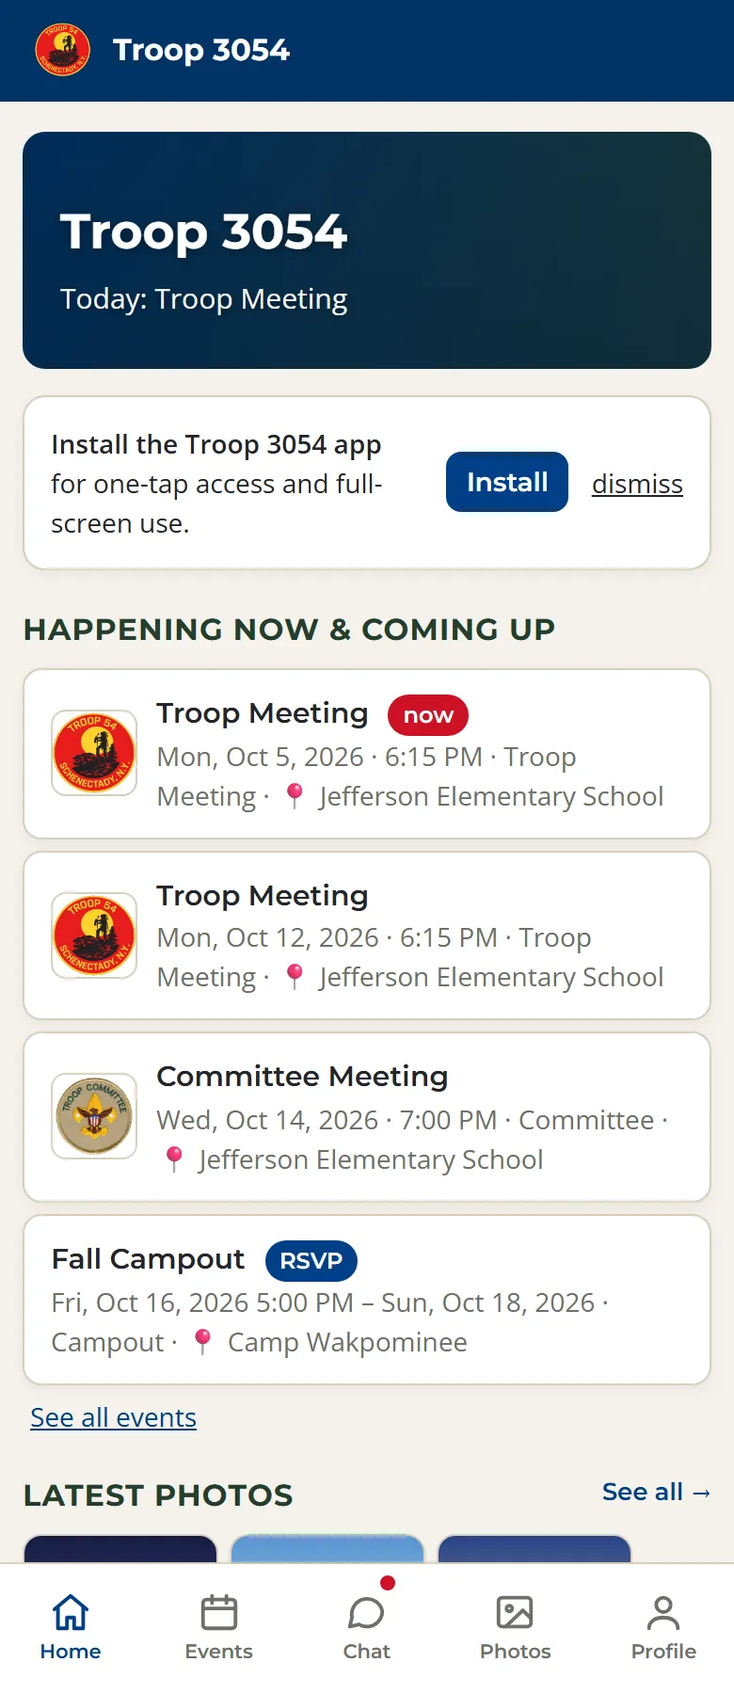
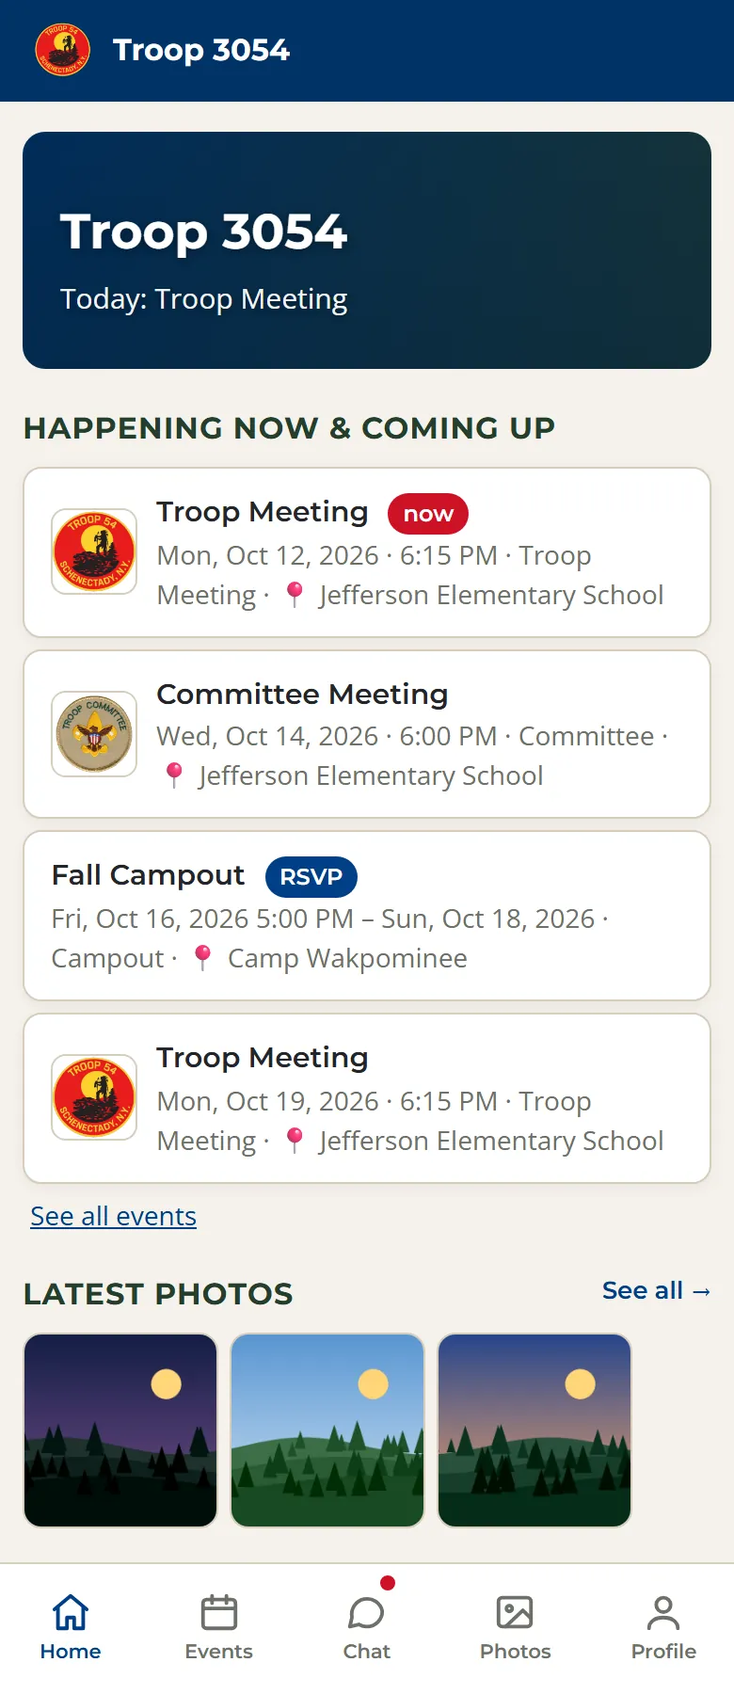
Audit fixes: accurate meeting nights, privacy policy, program facts
- "Every Monday" becomes "most Mondays", with a pointer to the calendar
  (some Mondays are off, some are the food bank).
- Privacy policy: Google Analytics' cookies, the Scribe's access, the 85th
  memory form, ranks and requirements taught, join requests, read
  receipts, the phone field, weekly backups to the admins, and
  info@troop3054.org instead of a personal address.
- Safeguarding Youth renews every year; the magazine is Scout Life; the
  Eagle page counts 59 Eagles; merit badges "over 135" everywhere.
- Contact form errors point to info@troop3054.org, not BAND.
- Calendar: a visible Google Calendar link next to Subscribe (webcal
  doesn't open on Android); the guide says so.
- Guide: leaders, not the PLC, fill in missing times and places; the
  Home screenshot shows the committee at 6 PM.
- Removed an unused combined pack/troop calendar image and an unused
  group photo of Scouts; .wrangler/ is ignored.

Changed region(s): [[0.0308, 0.2178, 0.9846, 0.9333], [0.9538, 0.2489, 0.9846, 0.28]]

diff --git a/privacy.html b/privacy.html
@@ -127,7 +127,7 @@
           <h2 style="margin-top: 2.5rem;">What We Collect</h2>
 
           <h3>Contact Form</h3>
-          <p>When you use our <a href="contact.html">contact form</a>, we collect your name, email address, and message. This information is processed by <a href="https://formspree.io" target="_blank" rel="noopener noreferrer">Formspree</a>, a third-party form service, and forwarded to our Committee Chair via email. We use this information only to respond to your inquiry.</p>
+          <p>When you use our <a href="contact.html">contact form</a>, we collect your name, email address, phone number (if you give one), and message. This information is processed by <a href="https://formspree.io" target="_blank" rel="noopener noreferrer">Formspree</a>, a third-party form service, and forwarded to our Committee Chair via email. We use this information only to respond to your inquiry.</p>
 
           <h3>Registration</h3>
           <p>When you register a Scout, you are redirected to <a href="https://my.scouting.org" target="_blank" rel="noopener noreferrer">my.scouting.org</a>, which is operated by Scouting America. We do not collect or process any registration data on our website. Scouting America's privacy policy governs that information.</p>
@@ -136,7 +136,10 @@
           <p>Troop families use a private, login-required portal at my.troop3054.org for attendance, events, RSVPs, announcements, group chat, and activity photos. The portal is run by our troop's volunteer leaders and is not visible to the public. For troop members it stores:</p>
           <ul>
             <li><strong>Roster information</strong> — names, patrol, and role in the troop; email addresses for adults (optional for Scouts, and a parent's address is preferred)</li>
-            <li><strong>Activity records</strong> — attendance, RSVPs, and camping nights, kept as part of the troop's program records</li>
+            <li><strong>Activity records</strong> — attendance, RSVPs, camping nights, and volunteer hours, kept as part of the troop's program records</li>
+            <li><strong>Advancement and planning</strong> — each Scout's current rank, the rank requirements taught at meetings they attended (a leader still signs them off in Scoutbook), and the youth leaders' meeting plans and reviews</li>
+            <li><strong>Requests to join</strong> — if you ask for a portal account, your name, email address, your Scout's name, and your relationship, so a leader can approve it</li>
+            <li><strong>Read receipts</strong> — whether you've opened an announcement, which troop leaders can see</li>
             <li><strong>Messages and photos</strong> — group-channel chat messages and photos from troop activities, visible only to signed-in members</li>
             <li><strong>Technical basics</strong> — a sign-in cookie (essential, first-party) and, if you turn notifications on, a push subscription for your device</li>
           </ul>
@@ -146,9 +149,12 @@
             <li>Everything a Scout can see, their parents can see</li>
             <li>Scouts sign in with a name and PIN — no email or social account is required for a child</li>
             <li>Notifications to Scouts' devices pause overnight</li>
-            <li>Access is role-based: only troop leaders can see attendance records and the full roster; committee-only material is not visible to Scouts</li>
+            <li>Access is role-based: only troop leaders and the troop Scribe (a youth position that helps take attendance) can see attendance records and the full roster; committee-only material is not visible to Scouts</li>
           </ul>
-          <p>The portal runs on <a href="https://www.cloudflare.com/privacypolicy/" target="_blank" rel="noopener noreferrer">Cloudflare</a> infrastructure, and email (sign-in links, announcements, reminders) is delivered by <a href="https://resend.com/legal/privacy-policy" target="_blank" rel="noopener noreferrer">Resend</a>. Troop data is not sold or shared with anyone; it is used only to run our Scouting program. Backup copies are kept by the troop's Committee Chair so records survive mistakes.</p>
+          <p>The portal runs on <a href="https://www.cloudflare.com/privacypolicy/" target="_blank" rel="noopener noreferrer">Cloudflare</a> infrastructure, and email (sign-in links, announcements, reminders) is delivered by <a href="https://resend.com/legal/privacy-policy" target="_blank" rel="noopener noreferrer">Resend</a>. Troop data is not sold or shared with anyone; it is used only to run our Scouting program. Backup copies are emailed each week to the portal's administrators so records survive mistakes.</p>
+
+          <h3>85th Anniversary Memories</h3>
+          <p>If you share a memory on our 85th anniversary page, we keep your name, email address, your years with the troop, your memory, and whether you'd like updates, plus a scrambled form of your internet address to block spam. We use it to tell the troop's story and, if you asked, to keep you posted.</p>
 
           <h3>Signing In with Google</h3>
           <p>Adults can sign in to the portal with their Google account instead of an emailed code. When you choose "Continue with Google," Google tells the portal your email address and confirms it's yours. We use it only to find the account the troop already has for that address. If the address isn't on file, no account is created and nothing is kept. The portal never gets access to your Gmail, contacts, calendar, files, or anything else in your Google account. As with any Google sign-in, Google knows you used it to sign in to the troop portal.</p>
@@ -162,7 +168,7 @@
             <li><strong>YouTube</strong> — We embed a video on our Join page using YouTube's privacy-enhanced mode, which limits tracking. See <a href="https://policies.google.com/privacy" target="_blank" rel="noopener noreferrer">Google's privacy policy</a>.</li>
             <li><strong>Formspree</strong> — Processes contact form submissions. See <a href="https://formspree.io/legal/privacy-policy" target="_blank" rel="noopener noreferrer">Formspree's privacy policy</a>.</li>
             <li><strong>Google Maps</strong> — We embed a map on our Contact page to show our meeting location. See <a href="https://policies.google.com/privacy" target="_blank" rel="noopener noreferrer">Google's privacy policy</a>.</li>
-            <li><strong>Google Analytics</strong> — We use Google Analytics to understand how visitors use our site (pages visited, time on site, general location). This data is anonymous and helps us improve the website. See <a href="https://policies.google.com/privacy" target="_blank" rel="noopener noreferrer">Google's privacy policy</a>.</li>
+            <li><strong>Google Analytics</strong> — We use Google Analytics to understand how visitors use our site (pages visited, time on site, general location). It sets cookies in your browser to count visits. We only look at the totals, and we don't use it to identify anyone. See <a href="https://policies.google.com/privacy" target="_blank" rel="noopener noreferrer">Google's privacy policy</a>.</li>
           </ul>
 
           <h2 style="margin-top: 2.5rem;">What We Don't Do</h2>
@@ -170,7 +176,7 @@
             <li>We do <strong>not</strong> sell, share, or rent your personal information to anyone</li>
             <li>We do <strong>not</strong> use advertising of any kind</li>
             <li>We do <strong>not</strong> track you across other websites — the only analytics we use is Google Analytics on the public website, described above</li>
-            <li>The public website sets no cookies of its own; the member portal sets only an essential sign-in cookie</li>
+            <li>On the public website, the only cookies are Google Analytics', described above; the member portal sets only an essential sign-in cookie</li>
             <li>We do <strong>not</strong> collect information from children through the public website; children's information in the member portal exists only as described below</li>
           </ul>
 
@@ -187,13 +193,13 @@
           <p>The member portal does hold information about the Scouts in our troop — their names, patrol, attendance, and photos from activities — because keeping those records is part of running a Scouting unit, just as it always was on paper. Scout accounts are created by troop leaders for registered members of the troop, with their parents connected to the same household in the portal. A Scout never needs to provide an email address or create a social-media-style profile. Parents can see everything their Scout can see, and may review or ask us to correct or remove their child's information at any time. Our troop follows all <a href="https://www.scouting.org/health-and-safety/gss/gss01/" target="_blank" rel="noopener noreferrer">Scouting America Youth Protection</a> policies, online and off.</p>
 
           <h2 style="margin-top: 2.5rem;">Your Choices</h2>
-          <p>You can visit our public website without submitting any personal information. Portal accounts are optional — families who prefer email-only communication can ask for that. If you'd like information about you or your child corrected or removed (from the contact form, the portal, or photos), email us at <a href="mailto:william.mau@gmail.com">william.mau@gmail.com</a> and we'll take care of it promptly. When someone leaves the troop, their account is deactivated; attendance history is retained as part of the troop's program records unless you ask us to delete it.</p>
+          <p>You can visit our public website without submitting any personal information. Portal accounts are optional — families who prefer email-only communication can ask for that. If you'd like information about you or your child corrected or removed (from the contact form, the portal, or photos), email us at <a href="mailto:info@troop3054.org">info@troop3054.org</a> and we'll take care of it promptly. When someone leaves the troop, their account is deactivated; attendance history is retained as part of the troop's program records unless you ask us to delete it.</p>
 
           <h2 style="margin-top: 2.5rem;">Changes</h2>
           <p>If we update this policy, we'll revise the "last updated" date at the top. For a volunteer Scout troop website, changes will be rare.</p>
 
           <h2 style="margin-top: 2.5rem;">Questions?</h2>
-          <p>If you have questions about this policy, <a href="contact.html">contact us</a> or email our Committee Chair at <a href="mailto:william.mau@gmail.com">william.mau@gmail.com</a>.</p>
+          <p>If you have questions about this policy, <a href="contact.html">contact us</a> or email us at <a href="mailto:info@troop3054.org">info@troop3054.org</a>.</p>
 
         </div>
       </div>

diff --git a/app.html b/app.html
@@ -370,7 +370,7 @@
               <h3>What to wear and bring</h3>
               <p>When the Scouts have planned a meeting, its <strong>Plan</strong> shows the uniform (Class A or Class B), what to bring, what they're doing, and who's teaching. If it covers rank requirements, they're listed under <strong>Covers</strong>. The uniform and what to bring also show on the <a href="calendar.html">public calendar</a>.</p>
               <h3>Add it to your calendar</h3>
-              <p>Open <strong>Details &amp; add to calendar</strong> and tap <strong>Google Calendar</strong> or <strong>Apple / Outlook</strong>. To get every troop event in your phone's calendar at once, tap <strong>Subscribe</strong> on our <a href="calendar.html">calendar page</a>.</p>
+              <p>Open <strong>Details &amp; add to calendar</strong> and tap <strong>Google Calendar</strong> or <strong>Apple / Outlook</strong>. To get every troop event in your phone's calendar at once, tap <strong>Subscribe</strong> on our <a href="calendar.html">calendar page</a> (on Android, tap <strong>Google Calendar</strong> there).</p>
             </div>
             <figure class="app-shot">
               <img src="images/app-guide/meeting-plan.webp" alt="A troop meeting's Plan showing Wear Class A, Bring Scout handbook and a 6-foot rope, the focus on knots, two Scouts teaching, the duty patrol, and the three rank requirements it covers" width="390" height="407" loading="lazy">
@@ -514,7 +514,7 @@
           <div class="app-step">
             <div>
               <h3>The rest of the Program page</h3>
-              <p>Anything still missing a time or a place shows at the bottom, so the PLC can fill it in. Leaders also see a summary and the next 8 weeks of meetings and outings: which ones are planned, how far ahead, and who's teaching, so they know what the PLC needs from them.</p>
+              <p>Leaders also see a summary and the next 8 weeks of meetings and outings: which ones are planned, how far ahead, and who's teaching, so they know what the PLC needs from them. Anything still missing a time or a place is listed at the bottom for leaders to fill in.</p>
             </div>
             <figure class="app-shot">
               <img src="images/app-guide/program.webp" alt="The leaders' view of the Program page: how many of the next meetings are planned, and the next 8 weeks, each marked Planned or Not planned" width="390" height="760" loading="lazy">

diff --git a/eagles.html b/eagles.html
@@ -198,7 +198,7 @@
     <section class="hero">
       <div class="container">
         <h1 class="fade-in">Our Eagle Scouts</h1>
-        <p class="fade-in">Less than 6% of all Scouts earn the Eagle rank. These 34 individuals demonstrated extraordinary dedication, leadership, and service to earn Scouting's highest honor.</p>
+        <p class="fade-in">Less than 6% of all Scouts earn the Eagle rank. These 59 individuals demonstrated extraordinary dedication, leadership, and service to earn Scouting's highest honor.</p>
       </div>
       <svg class="hero-watermark" width="140" height="144" viewBox="-0.864 -0.333 350 359" fill="white" aria-hidden="true">
         <path d="M297.69,147.804c-47.642-5.459-97.763,27.791-107.192,94.289c-0.329,2.318-0.605,4.685-0.824,7.076h-2.81c4.056-45.102,22.727-76.399,33.905-97.214c14.49-26.98,2.729-53.559-2.997-65.452C211.276,73.013,181.848,18.486,174.354,0c-7.494,18.486-36.702,73.013-43.198,86.503c-5.728,11.893-17.488,38.472-2.998,65.452c11.103,20.673,29.87,52.316,34.226,97.214h-3.208c-0.219-2.392-0.495-4.758-0.824-7.076c-9.43-66.499-59.551-99.748-107.192-94.289c-53.284,6.105-81.882,90.319,0.496,110.666c-13.399-24.813,7.443-69.477,55.583-44.167c15.656,8.232,26.561,21.383,31.072,34.866h-8.065c-7.608,0-13.776,4.469-13.776,9.983c0,5.514,6.168,9.983,13.776,9.983h9.817c-0.803,4.348-2.456,8.464-5.034,12.162c-11.416,16.377-49.649,7.444-28.31-28.286c-36.065-4.747-45.649,29.279-35.228,47.641c11.453,23.411,61.479,30.428,80.41-2.978c4.54-8.012,6.819-18.047,7.555-28.539h3.864c-0.033,7.932-0.53,16.224-1.59,24.887c-12.647,8.146-7.717,25.725-23.735,36.234c10.062,0.265,18.271-1.708,20.92-5.415c0,10.75,9.617,19.812,15.886,32.858c5.824-13.119,15.208-24.094,15.208-32.858c2.648,3.707,10.857,5.68,20.92,5.415c-14.687-9.01-8.898-25.516-23.261-37.306c-1.015-8.293-1.508-16.22-1.589-23.815h3.312c0.735,10.492,3.016,20.527,7.555,28.539c18.931,33.405,68.957,26.389,80.41,2.978c10.422-18.361,0.838-52.388-35.228-47.641c21.34,35.73-16.894,44.663-28.31,28.286c-2.577-3.698-4.23-7.814-5.033-12.162h10.572c7.608,0,13.776-4.47,13.776-9.983c0-5.515-6.168-9.983-13.776-9.983h-8.821c4.512-13.483,15.416-26.634,31.072-34.866c48.14-25.31,68.982,19.354,55.583,44.167C379.573,238.124,350.974,153.91,297.69,147.804z"/>

diff --git a/join.html b/join.html
@@ -12,7 +12,7 @@
   <meta charset="UTF-8">
   <meta name="viewport" content="width=device-width, initial-scale=1.0">
   <title>Troop 3054 | Join Our Troop | Scouting in Rotterdam, NY</title>
-  <meta name="description" content="Join Troop 3054 in Rotterdam, NY: boys and girls ages 10-17, $150 a year, no tryouts. Visit any Monday at 6:15 PM at Jefferson Elementary, Schenectady.">
+  <meta name="description" content="Join Troop 3054 in Rotterdam, NY: boys and girls ages 10-17, $150 a year, no tryouts. Visit most Mondays at 6:15 PM at Jefferson Elementary, Schenectady.">
   <meta name="keywords" content="join Boy Scouts Rotterdam, how to join scouts NY, sign up for scouts Schenectady, youth camping near me, kids outdoor activities Rotterdam NY, scouts for girls NY, coed scouts Capital Region, teen activities Rotterdam, after school programs Schenectady County, summer camp scouts NY, youth leadership Rotterdam, BSA Troop 3054, join scouts Capital Region, Scouts Albany, Scouts Scotia Glenville, Scouts Niskayuna, Scouts Guilderland, Scouts Clifton Park">
   <link rel="canonical" href="https://www.troop3054.org/join.html">
 
@@ -257,7 +257,7 @@
         <div class="steps-grid stagger-children">
           <div class="card step-card fade-in">
             <h3>Visit a Monday Meeting</h3>
-            <p>Drop in any Monday at 6:15 PM at <a href="https://www.schalmont.org/elementary/" target="_blank" rel="noopener noreferrer">Jefferson Elementary School</a> (100 Princetown Rd, Schenectady). No commitment needed — just come and see what Scouting is all about.</p>
+            <p>Drop in most Mondays at 6:15 PM at <a href="https://www.schalmont.org/elementary/" target="_blank" rel="noopener noreferrer">Jefferson Elementary School</a> (100 Princetown Rd, Schenectady). Check the <a href="calendar.html">calendar</a> first, since some Mondays we’re off or at the food bank. No commitment needed — just come and see what Scouting is all about.</p>
             <a href="calendar.html" class="btn btn-outline" style="margin-top: 1rem;">View Full Calendar</a>
           </div>
           <div class="card step-card fade-in">

diff --git a/guide.html b/guide.html
@@ -217,7 +217,7 @@
         <!-- First Meeting -->
         <section id="first-meeting" class="guide-section">
           <h2>Your First Meeting</h2>
-          <p class="section-lead">We meet every Monday at 6:15 PM at Jefferson Elementary School (100 Princetown Rd, Schenectady). Your Scout's first night is low-key. Here's what to bring and what to expect.</p>
+          <p class="section-lead">We meet most Mondays at 6:15 PM at Jefferson Elementary School (100 Princetown Rd, Schenectady). Check the <a href="calendar.html">calendar</a> for the dates. Your Scout's first night is low-key. Here's what to bring and what to expect.</p>
 
           <h3>What to Bring</h3>
           <ul>
@@ -291,7 +291,7 @@
 
           <h3>Typical Annual Costs</h3>
           <ul>
-            <li><strong>Yearly registration:</strong> $150/year (covers both national and council fees - includes insurance, Scouting Life magazine, and training access)</li>
+            <li><strong>Yearly registration:</strong> $150/year (covers both national and council fees - includes insurance, Scout Life magazine, and training access)</li>
             <li><strong>Troop dues:</strong> None - Troop 3054 does not charge troop dues</li>
             <li><strong>Campout fees:</strong> Vary by event (cover food and campsite)</li>
             <li><strong>Summer camp:</strong> ~$600 for a week (deposits may be required early)</li>
@@ -536,7 +536,7 @@
           <ul>
             <li>Free at <a href="https://my.scouting.org" target="_blank" rel="noopener noreferrer">my.scouting.org</a></li>
             <li>Takes approximately 90 minutes (can be paused and resumed)</li>
-            <li>Must be renewed every two years</li>
+            <li>Must be renewed every year (after the first full course, it’s a short refresher)</li>
             <li>Covers abuse prevention, peer-on-peer behavior, the SAFE framework, online safety, and mandatory reporting</li>
           </ul>
 

diff --git a/calendar.html b/calendar.html
@@ -674,7 +674,8 @@
             <div class="view-toggle">
               <button class="active" onclick="setView('calendar')">Calendar</button>
               <button onclick="setView('list')">List</button>
-              <a class="subscribe-link" href="webcal://my.troop3054.org/calendar.ics" title="Add the troop calendar to Apple Calendar or Outlook. On Google Calendar, use Other calendars → From URL and paste https://my.troop3054.org/calendar.ics">Subscribe</a>
+              <a class="subscribe-link" href="webcal://my.troop3054.org/calendar.ics" title="Add the troop calendar to Apple Calendar or Outlook">Subscribe</a>
+              <a class="subscribe-link" href="https://calendar.google.com/calendar/render?cid=webcal%3A%2F%2Fmy.troop3054.org%2Fcalendar.ics" target="_blank" rel="noopener noreferrer" title="Add the troop calendar to Google Calendar (works on Android)">Google Calendar</a>
             </div>
             <p class="pack-status" id="pack-status" role="status" hidden></p>
           </div>
@@ -752,7 +753,7 @@
     <section class="cta-section">
       <div class="container" style="text-align: center;">
         <h2>Ready to Join the Adventure?</h2>
-        <p style="max-width: 600px; margin: 1rem auto 2rem;">Drop in any Monday at 6:15 PM at Jefferson Elementary School — no commitment, no pressure.</p>
+        <p style="max-width: 600px; margin: 1rem auto 2rem;">Pick a Troop Meeting on the calendar and drop in, most Mondays at 6:15 PM at Jefferson Elementary School. No commitment, no pressure.</p>
         <div class="cta-buttons">
           <a href="join.html" class="btn btn-primary">How to Join</a>
           <a href="contact.html" class="btn btn-outline">Contact Us</a>

diff --git a/contact.html b/contact.html
@@ -12,7 +12,7 @@
   <meta charset="UTF-8">
   <meta name="viewport" content="width=device-width, initial-scale=1.0">
   <title>Troop 3054 | Contact Us | Scouting in Rotterdam, NY</title>
-  <meta name="description" content="Contact Troop 3054 in Rotterdam, NY. We meet Mondays at 6:15 PM at Jefferson Elementary School, 100 Princetown Rd, Schenectady. Drop in any week.">
+  <meta name="description" content="Contact Troop 3054 in Rotterdam, NY. We meet most Mondays at 6:15 PM at Jefferson Elementary School, 100 Princetown Rd, Schenectady. Check the calendar, then drop in.">
   <meta name="keywords" content="Boy Scouts Rotterdam, scout troop near me, scout meetings Rotterdam NY, BSA Troop 3054 contact, Jefferson Elementary School scouts, Monday scout meetings Schenectady, Scouts Capital District NY, Scouts Scotia Glenville Niskayuna, youth activities near me Rotterdam">
   <link rel="canonical" href="https://www.troop3054.org/contact.html">
 
@@ -133,7 +133,7 @@
         "name": "Capital Region, NY"
       }
     ],
-    "email": "william.mau@gmail.com"
+    "email": "info@troop3054.org"
   }
   </script>
 
@@ -284,7 +284,7 @@
                 </div>
                 <div>
                   <h3>Meeting Time</h3>
-                  <p>Every Monday at 6:15 PM<br>No uniform needed for your first visit!</p>
+                  <p>Most Mondays at 6:15 PM (check the <a href="calendar.html">calendar</a>)<br>No uniform needed for your first visit!</p>
                   <a href="calendar.html" style="color: var(--color-primary); font-size: 0.9rem;">View our full calendar &rarr;</a>
                 </div>
               </div>

diff --git a/index.html b/index.html
@@ -327,7 +327,7 @@
               <svg width="28" height="28" viewBox="0 0 24 24" fill="none" stroke="#232528" stroke-width="2" stroke-linecap="round" stroke-linejoin="round"><circle cx="12" cy="8" r="7"/><polyline points="8.21 13.89 7 23 12 20 17 23 15.79 13.88"/></svg>
             </div>
             <h3>Merit Badges</h3>
-            <p>Over 140 merit badges to explore - from robotics to wilderness survival to cooking.</p>
+            <p>Over 135 merit badges to explore - from robotics to wilderness survival to cooking.</p>
           </div>
           <div class="card icon-card fade-in">
             <div class="card-icon" aria-hidden="true">
@@ -357,7 +357,7 @@
             <svg width="24" height="24" viewBox="0 0 24 24" fill="none" stroke="#FFFFFF" stroke-width="2" stroke-linecap="round" stroke-linejoin="round"><path d="M21 10c0 7-9 13-9 13s-9-6-9-13a9 9 0 0118 0z"/><circle cx="12" cy="10" r="3"/></svg>
           </span>
           <div>
-            <h3>We meet every Monday at 6:15 PM at Jefferson Elementary School</h3>
+            <h3>We meet most Mondays at 6:15 PM at Jefferson Elementary School</h3>
             <p>100 Princetown Rd, Schenectady, NY 12306. Families from Rotterdam, Schenectady, Scotia, Glenville, Niskayuna, and across the Capital Region are welcome. No uniform needed for your first visit!</p>
             <a href="calendar.html" style="color: var(--color-secondary); text-decoration: underline; font-size: 0.9rem;">View full calendar &rarr;</a>
           </div>

diff --git a/script.js b/script.js
@@ -196,12 +196,12 @@
         } else {
           submitBtn.textContent = originalText;
           submitBtn.disabled = false;
-          alert('Something went wrong. Please try again or reach out on the Band app.');
+          alert('Something went wrong. Please try again, or email info@troop3054.org.');
         }
       }).catch(function () {
         submitBtn.textContent = originalText;
         submitBtn.disabled = false;
-        alert('Something went wrong. Please try again or reach out on the Band app.');
+        alert('Something went wrong. Please try again, or email info@troop3054.org.');
       });
     });
   }
